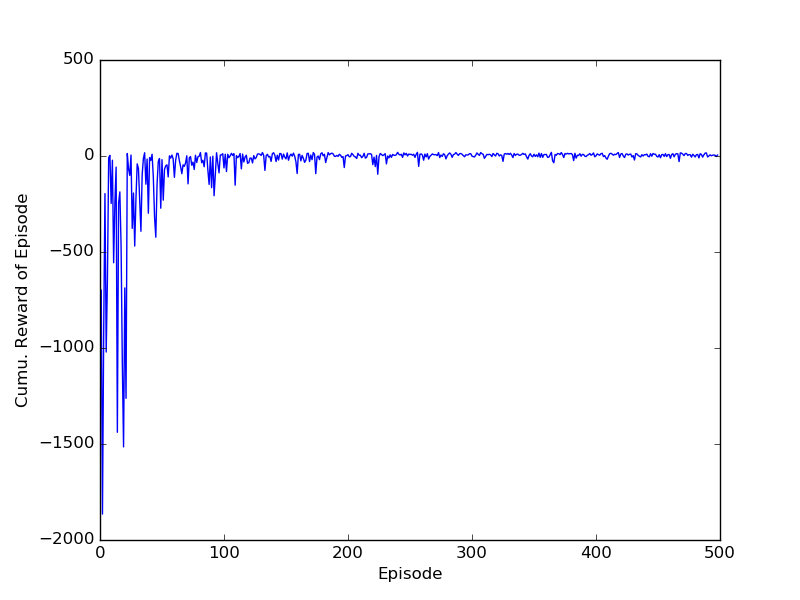
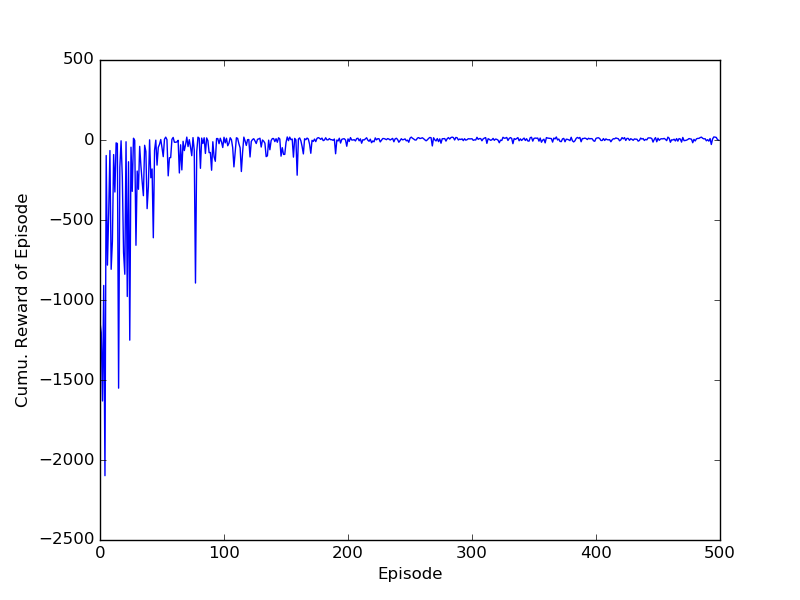
value8

Changed region(s): [[0.0625, 0.21, 0.9062, 0.84], [0.0625, 0.87, 0.0938, 0.9]]

diff --git a/_posts/2016-08-21-Learning_Value_Functions.md b/_posts/2016-08-21-Learning_Value_Functions.md
@@ -152,7 +152,6 @@ Put simply, the easiest way to guarantee convergence: use a simple learning rate
 For a discrete problem, the following python implementation of Q-learning works well enough:
 
 ```python
-
 import gym
 env = gym.make("Taxi-v1")
 
@@ -173,14 +172,12 @@ epsilon = 0.1
 gamma = 0.9
 
 
-episodescores = []
-
 # Simulation
+episodescores = []
 for _ in range(500):
     nextstate = env.reset()
     currentscore = 0.
     for _ in range(1000):
-        # env.render()
         state = nextstate
 
         # Epsilon-Greedy
@@ -195,12 +192,73 @@ for _ in range(500):
         # Q-learning
         if done :
             Q[(state,action)] = Q[(state,action)] + 1./n[(state,action)] * ( reward - Q[(state,action)] )
-            episodescores.append(currentscore)
             break
         else :
             Q[(state,action)] = Q[(state,action)] + 1./n[(state,action)] * ( reward + gamma * max_q(nextstate) - Q[(state,action)] )
 
-        print nextstate, reward, done, info
+    episodescores.append(currentscore)
+
+
+import matplotlib.pyplot as plt
+plt.plot(episodescores)
+plt.xlabel('Episode')
+plt.ylabel('Cumu. Reward of Episode')
+plt.show()
+```
+
+This code resulted in the following performance:
+
+![Q-learning]({{ site.baseurl }}/images/qlearning.png)
+
+
+And here also a simple implementation of SARSA:
+
+```python
+import gym
+env = gym.make("Taxi-v1")
+
+
+# Q-function
+# initial_Q = 0.
+from collections import defaultdict
+Q = defaultdict(lambda : 0.) # Q-function
+n = defaultdict(lambda : 1.) # number of visits
+
+
+# Extra
+actionspace = range(env.action_space.n)
+greedy_action = lambda s : max(actionspace, key=lambda a : Q[(s,a)])
+import random
+epsilon = 0.1
+gamma = 0.9
+
+
+# Simulation
+episodescores = []
+for _ in range(500):
+    state = env.reset()
+    currentscore = 0.
+    for t in range(1000):
+        # Epsilon-Greedy
+        if epsilon > random.random() :
+            action = env.action_space.sample() # your agent here (this takes random actions)
+        else :
+            action = greedy_action(state)
+
+        # SARSA
+        if t > 0 : # Because previous state and action do not yet exist at t=0
+            Q[(prevstate,prevaction)] = Q[(prevstate,prevaction)] + 1./n[(prevstate,prevaction)] * ( reward + gamma * Q[(state, action)] - Q[(prevstate,prevaction)] )
+
+        nextstate, reward, done, info = env.step(action)
+        currentscore += reward
+
+        if done :
+            Q[(prevstate,prevaction)] = Q[(prevstate,prevaction)] + 1./n[(state,action)] * ( reward - Q[(prevstate,prevaction)] )
+            break
+
+        prevstate, state, prevaction = state, nextstate, action
+
+    episodescores.append(currentscore)
 
 
 import matplotlib.pyplot as plt
@@ -209,15 +267,11 @@ plt.plot(episodescores)
 plt.xlabel('Episode')
 plt.ylabel('Cumu. Reward of Episode')
 plt.show()
-
-
 ```
 
-This code resulted in the following performance:
+And the resulting image. Notice that the performance does not seem to converge to the optimal, this is because SARSA is on-policy and the behaviour-policy remains epsilon-greedy with $$\epsilon = 0.1$$ and thus will do a random (bad) action roughly 10% of the time.
 
-![Q-learning]({{ site.baseurl }}/images/qlearning.png)
-
-
+![Q-learning]({{ site.baseurl }}/images/sarsa.png)
 
 
 
